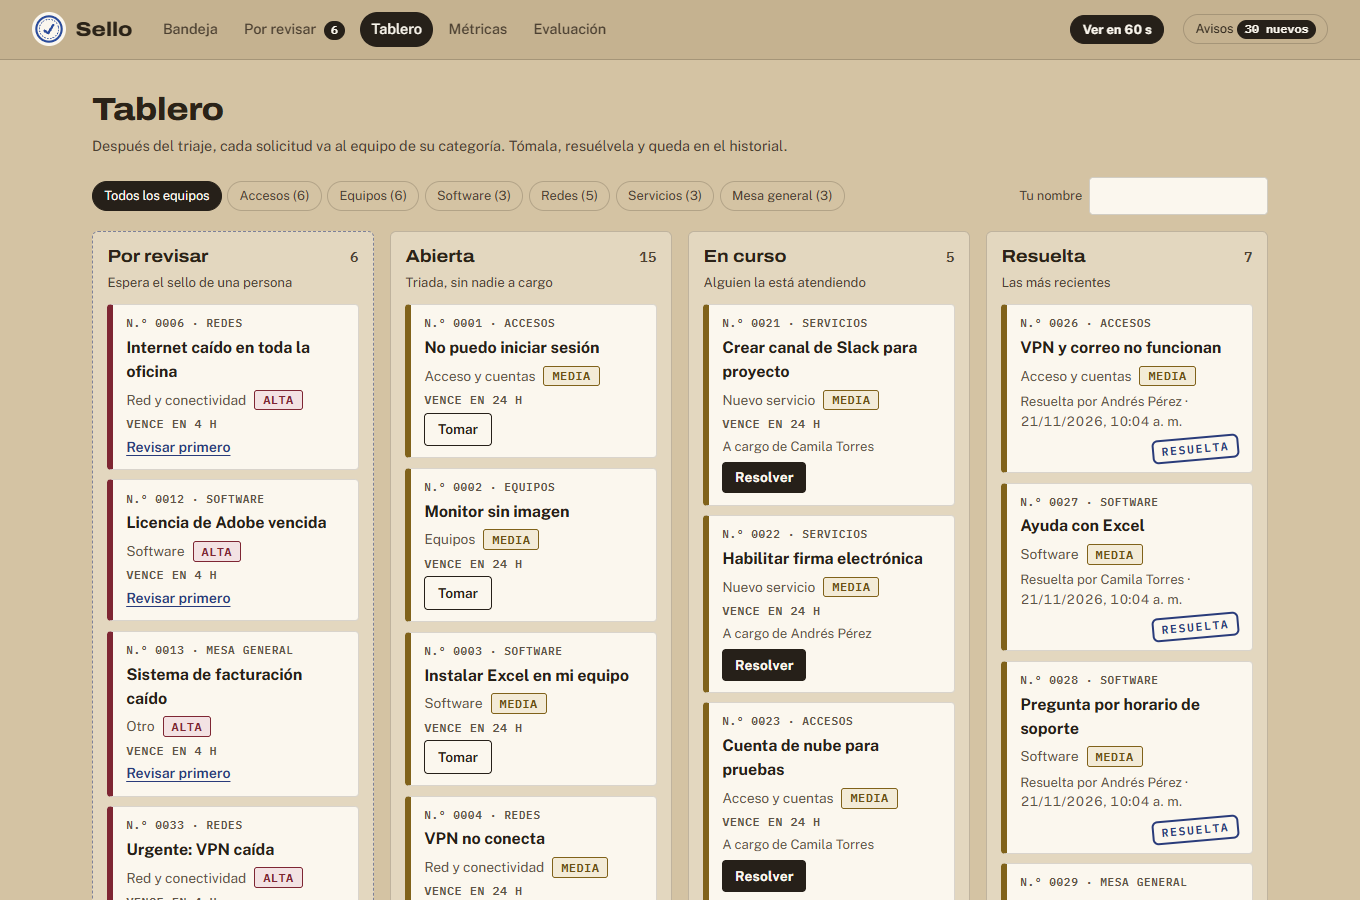
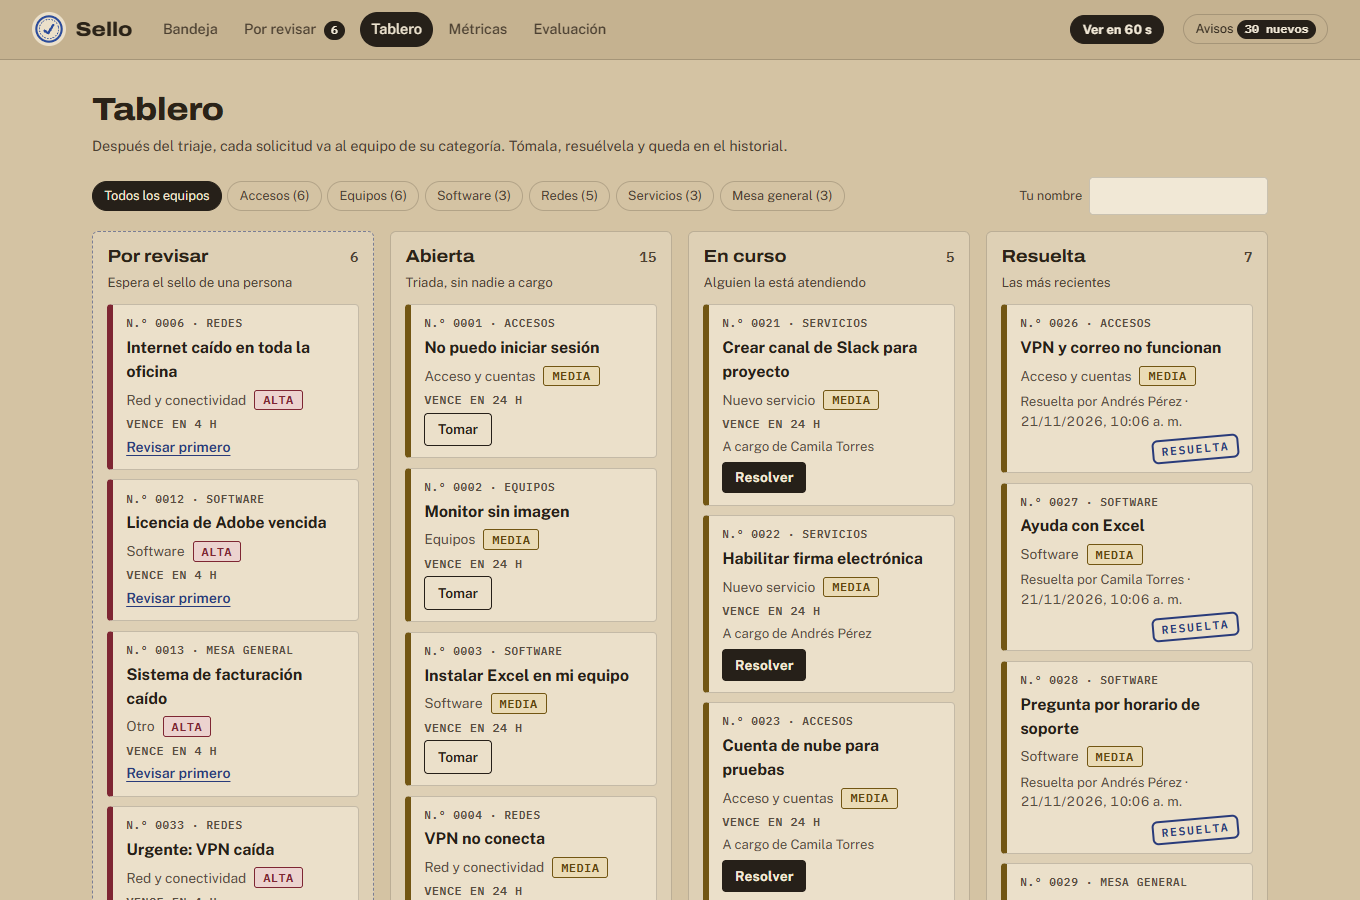
style: cajas de papel kraft claro en vez de blanco
Las cajas casi blancas no casaban con el fondo kraft. Ahora el papel es de la
misma familia (#EBE0CA, campos y tiques #F2E9D7) y se separa del escritorio por
borde y sombra, no por brillo. La mostaza baja a #725613 para mantener AA sobre
el papel nuevo; contraste AA en todos los pares y 0 fallos medidos en el
navegador. Capturas del README regeneradas.

diff --git a/backend/app/landing/tokens.css b/backend/app/landing/tokens.css
@@ -1,45 +1,45 @@
 /* Paleta de Sello, «Kraft y tampón»: única fuente de color del panel y de /como-funciona (el panel la enlaza
-   en index.html). Escritorio de cartón kraft, tiques de papel blanco y tintas de tampón desaturadas.
+   en index.html). Escritorio de cartón kraft, tiques de papel kraft claro (de la misma familia que el fondo) y tintas de tampón desaturadas.
    Nombres: «tinta» = el escritorio (fondo de la página); «papel» = los tiques y paneles.
    Las tintas de prioridad van en franja, borde, texto y sello; los chips de prioridad en tono suave.
    Contraste AA comprobado en todos los pares de texto. */
 
 :root {
   --activo: #262019;  /* pestaña o chip activo sobre el escritorio */
-  --activo-texto: #fbf7ee;
+  --activo-texto: #efe5d1;
   --tinta: #d4c3a3;
   --barra: rgba(196, 177, 143, 0.95);
   --tinta-texto: #2b2318;
   --tinta-gris: #4c4031;
   --tinta-linea: rgba(43, 35, 24, 0.2);
-  --tinta-suave: rgba(255, 252, 243, 0.35);
-  --tinta-campo: #fbf7ee;
-  --papel: #fbf7ee;
-  --papel-2: #f2ebdc;
-  --papel-claro: #fffefa;
+  --tinta-suave: rgba(241, 232, 214, 0.35);
+  --tinta-campo: #f1e8d6;
+  --papel: #ebe0ca;
+  --papel-2: #e2d5bb;
+  --papel-claro: #f2e9d7;
   --papel-texto: #262019;
-  --papel-gris: #5e5447;
-  --papel-tenue: #6b6152;
-  --papel-linea: rgba(38, 32, 25, 0.16);
-  --papel-suave: rgba(38, 32, 25, 0.05);
+  --papel-gris: #584d3f;
+  --papel-tenue: #5f5446;
+  --papel-linea: rgba(38, 32, 25, 0.2);
+  --papel-suave: rgba(38, 32, 25, 0.06);
   --alta: #7e2633;
-  --media: #80621a;
+  --media: #725613;
   --baja: #3e5d56;
   --persona: #293b7a;
   --grafito: #4e473f;
   --sobre-persona: #ffffff;
-  --badge-alta-bg: #f3e2e3;   --badge-alta-fg: #7e2633;
-  --badge-media-bg: #f3ebd7;  --badge-media-fg: #6b5115;
-  --badge-baja-bg: #e3ebe8;   --badge-baja-fg: #36514b;
+  --badge-alta-bg: #ecd3cf;   --badge-alta-fg: #7e2633;
+  --badge-media-bg: #eadbb6;  --badge-media-fg: #5f470f;
+  --badge-baja-bg: #d6ded8;   --badge-baja-fg: #30483f;
   --acento: #262019;
-  --acento-texto: #fbf7ee;
+  --acento-texto: #f2e9d7;
   --destacado: #262019;
-  --destacado-texto: #fbf7ee;
+  --destacado-texto: #f2e9d7;
   --contador: #262019;
-  --contador-texto: #fbf7ee;
+  --contador-texto: #f2e9d7;
   --chip-demo: #4c4031;
-  --clf-bg: #e8ebf4;
-  --fallo-bg: #f4e1e1;
-  --sombra: 0 8px 20px rgba(70, 50, 20, 0.18);
+  --clf-bg: #e1dfe3;
+  --fallo-bg: #ecd6cd;
+  --sombra: 0 1px 0 rgba(255, 250, 240, 0.5) inset, 0 6px 16px rgba(70, 50, 20, 0.16);
   color-scheme: light;
 }
